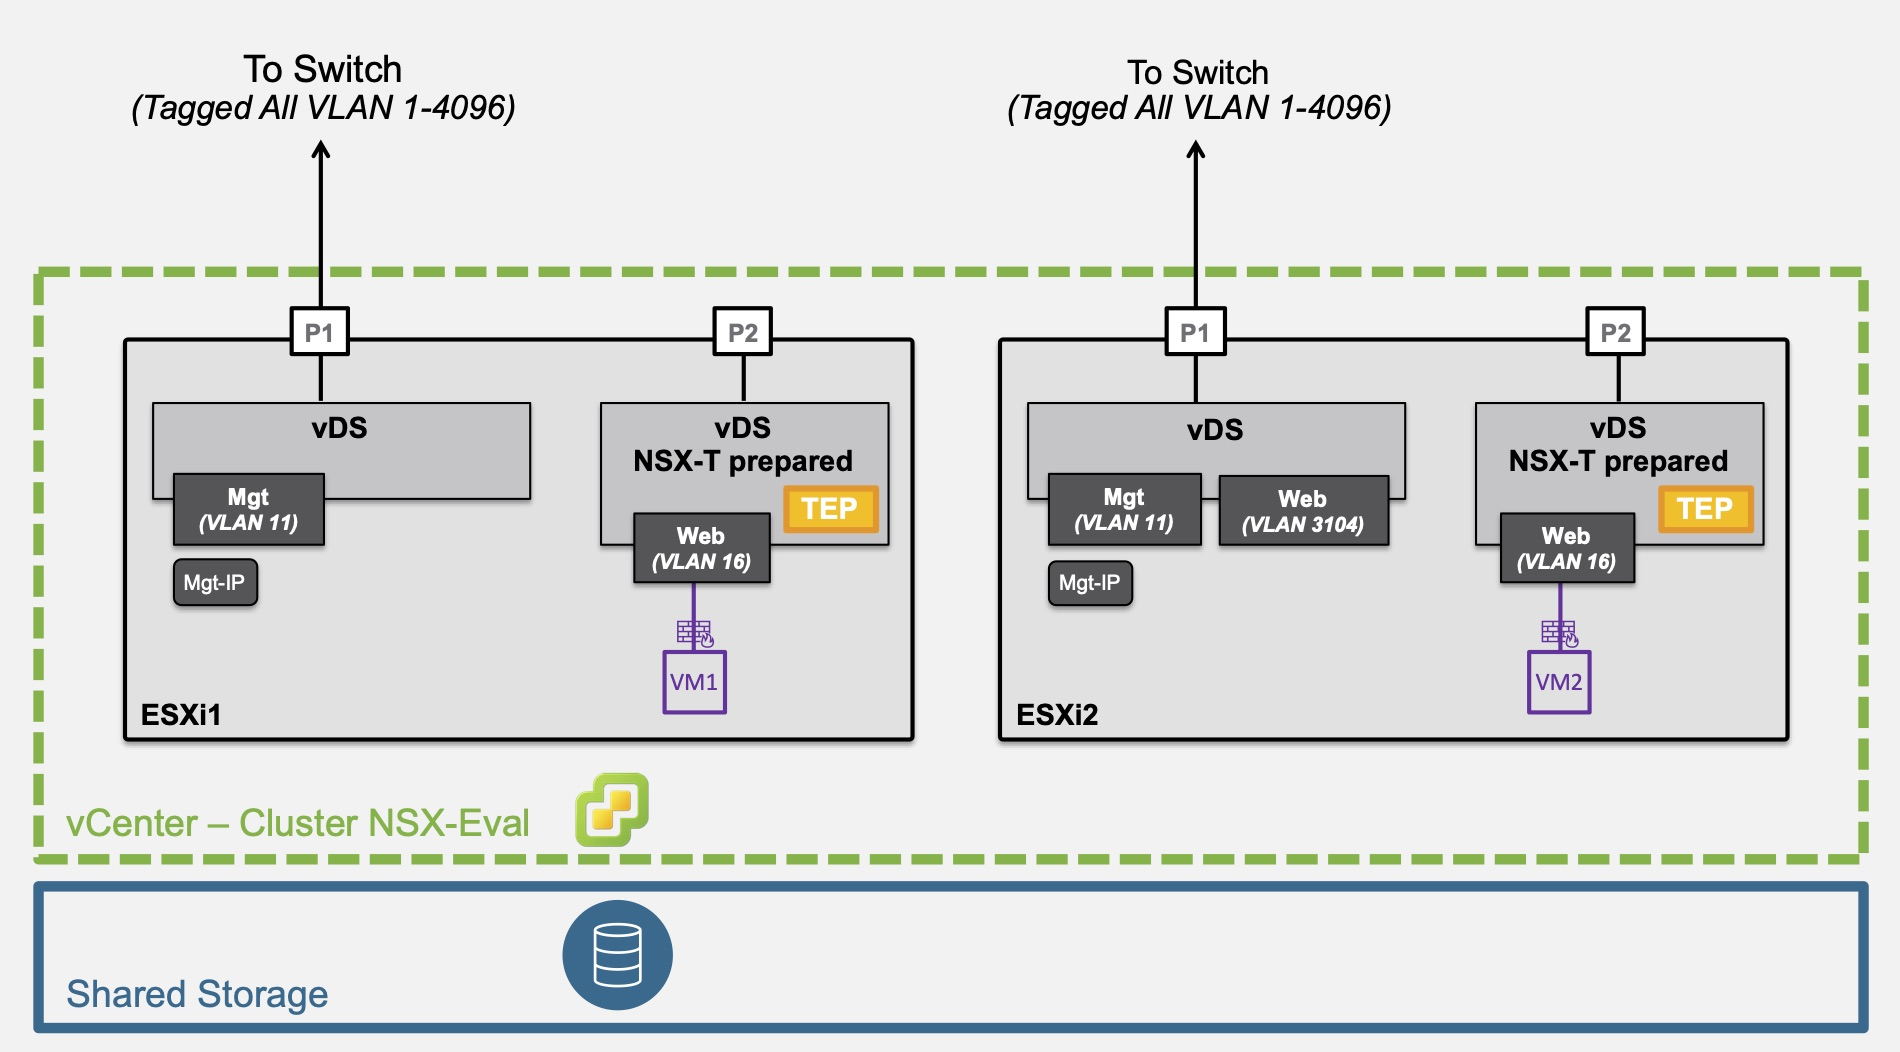
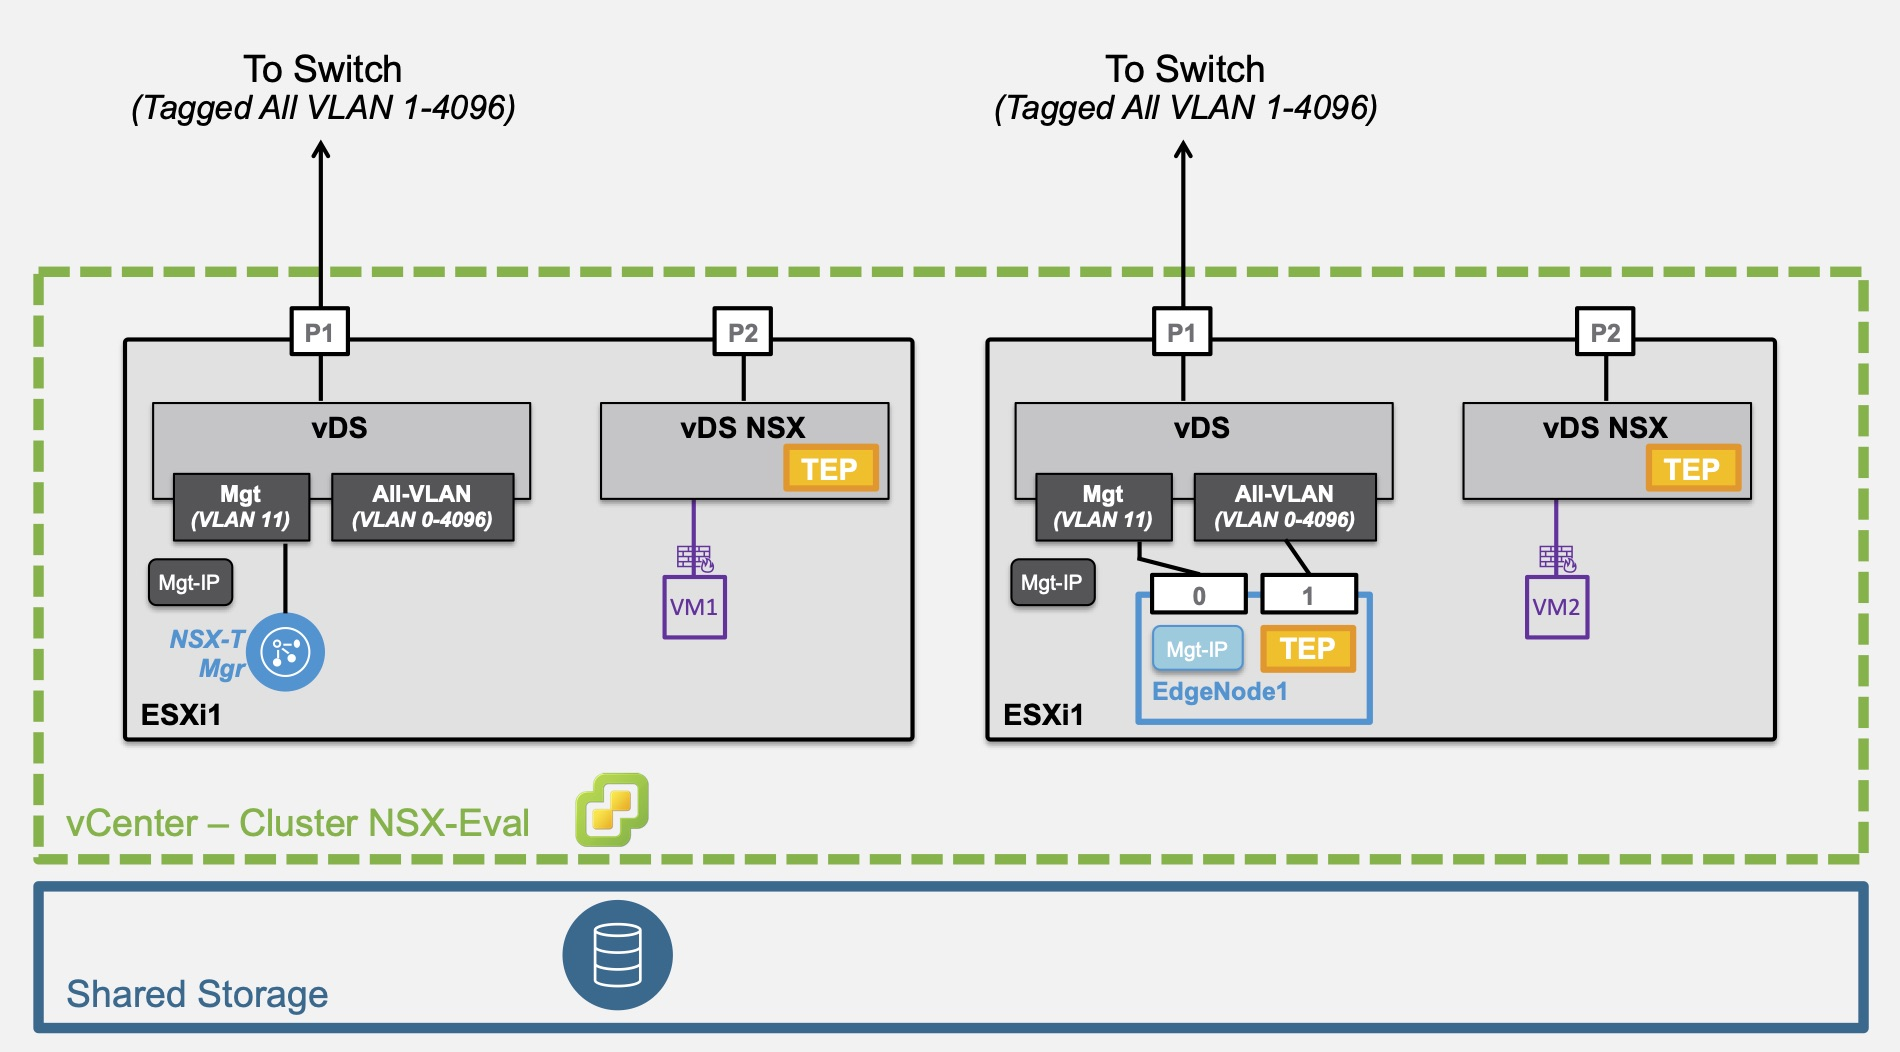
Creation

diff --git a/docs/3.2-Logical Network+Security.md b/docs/3.2-Logical Network+Security.md
@@ -1,21 +1,24 @@
 
-## 3.1. Security only (no Logical Network)
+## 3.2. Logical Network + Security
 
-In this section, you'll configure 2 Web VMs on a new VLAN and provide micro-segmentation (DFW) on those 2 VMs.  
-*Important Note: In this section, the routing is still fully done by physical fabric.  
-So your physical router needs an interface for that new VLAN (10.114.218.1/24 in my lab).*
+In this section, you'll configure Logical Networks for Tenants Green and Blue (Logical Routers = "Tier1" and Logical Switches = "Segments").  
+Those Tenants Logical Networks will have access to the physical fabric via a Logical Router (Tier0).
+Routing between the Tier0 and physical router will be done via "static routing" or "BGP".
+
+*Important Note: In this section, the internal Tenant routing (East/West) is done in "Logical Space" by NSX.  
+The physical router provides the routing between the "logical space" and the "physical world" (North/South).*
 
 <p align="center">
-  <img width=50% height=50% src="/docs/assets/Graphics/3.1.LogicalView.jpg"><br>
+  <img width=50% height=50% src="/docs/assets/Graphics/3.2.LogicalView.jpg"><br>
   Logical View<br>
-  <img width=75% height=75% src="/docs/assets/Graphics/3.1.PhysicalView.jpg"><br>
+  <img width=75% height=75% src="/docs/assets/Graphics/3.2.PhysicalView.jpg"><br>
   Physical View<br>
 </p>  
 
 
 ---
 
-### 3.1.1. Create VLAN in NSX-T
+### 3.2.1. Create Tenants Logical Networks
 
 <details>
 <summary>"Click to expand"</summary>
@@ -26,12 +29,18 @@ In a browser: https://192.168.50.5/.
     <img width=85% height=85% src="/docs/assets/Graphics/2.3.step1.jpg">
   </p>  
 
-- Create new VLAN Segment "VLAN-Web".  
+- Create new Logical Routers "LSxxx".  
+Under "Networking - Connectivity - Tier-1 Gateways", click "Add Tier-1 Gateway".  
+*For this lab, see on top of the page for the T1 name (T1-Tenant1, and T1-Tenant2).*  
+  <p align="center">
+    <img width=85% height=85% src="/docs/assets/Graphics/3.1.1.step1.jpg">
+  </p>  
+
+
+- Create new Overlay Segments "LSxxx".  
 Under "Networking - Segments", click "Add Segment".  
-*For this lab, see on top of the page for the VLAN number (16).*  
-*Select Transport Zone = "nsx-vlan-transportzone" (Default TZ for VLAN traffic),  
-  VLAN = "16",
-  and no extra configuration for that Segment.*  
+*For this lab, see on top of the page for the Segment name (LS1.1, LS1.2, and LS2.1).*  
+*Select Transport Zone = "nsx-overlay-transportzone" (Default TZ for Overlay traffic).*  
   <p align="center">
     <img width=85% height=85% src="/docs/assets/Graphics/3.1.1.step1.jpg">
   </p>  
